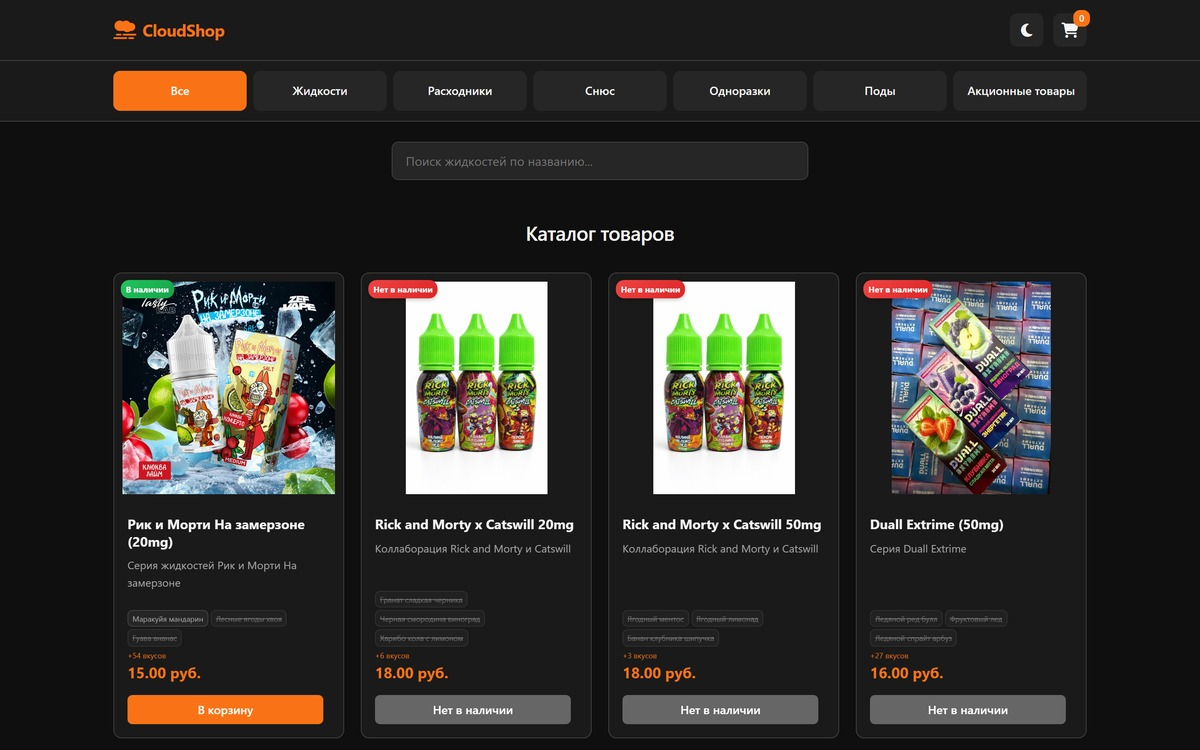
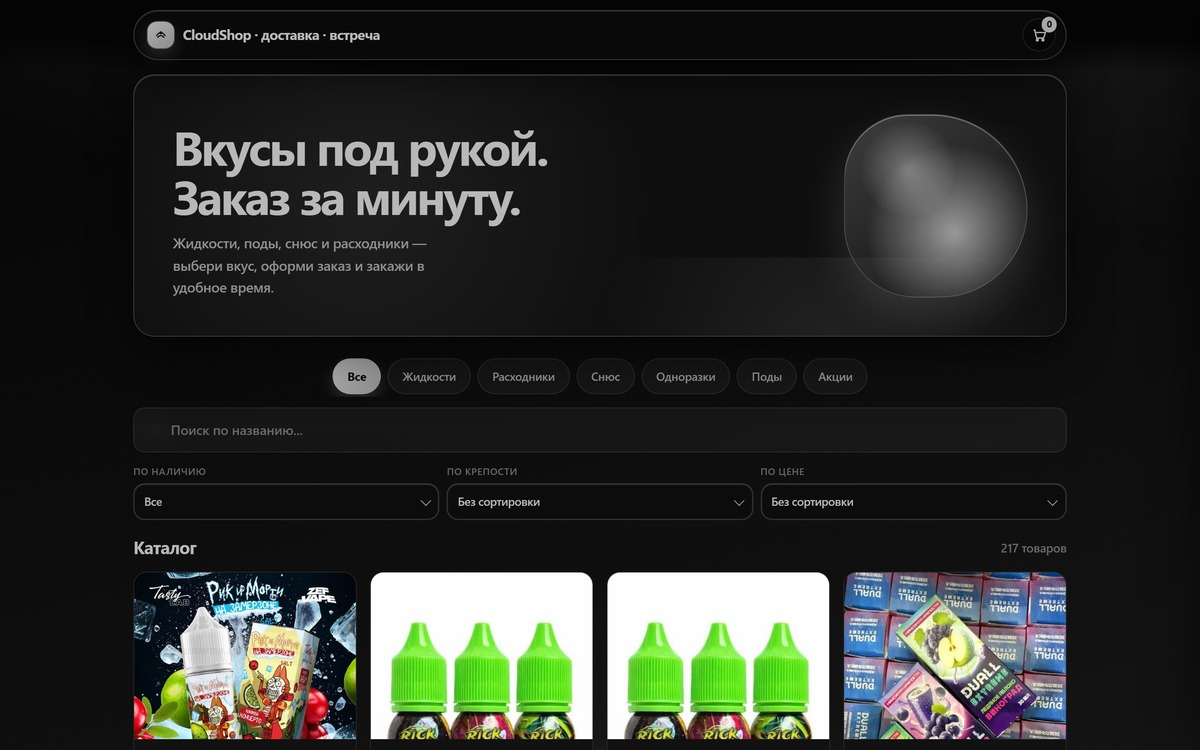
Update CloudShop preview to the redesigned site.

diff --git a/index.html b/index.html
@@ -17,7 +17,7 @@
   <link rel="preload" href="./fonts/g8.woff2" as="font" type="font/woff2" crossorigin />
   <link rel="preload" href="./fonts/g2.woff2" as="font" type="font/woff2" crossorigin />
   <link rel="stylesheet" href="./fonts/fonts.css" />
-  <link rel="stylesheet" href="./styles.css?v=24" />
+  <link rel="stylesheet" href="./styles.css?v=25" />
 </head>
 <body>
   <a class="skip" href="#work">К работам</a>
@@ -181,8 +181,8 @@
         <article class="project reveal" data-cat="shop" data-accent="mint">
           <a class="project__media tilt" href="https://cloudshopgrodno.com/" target="_blank" rel="noopener noreferrer">
             <picture>
-              <source srcset="./images/cloudshop.webp" type="image/webp" />
-              <img src="./images/cloudshop.jpg" alt="Сайт CloudShop" width="1200" height="750" loading="lazy" decoding="async" sizes="(max-width: 900px) 50vw, 560px" />
+              <source srcset="./images/cloudshop.webp?v=25" type="image/webp" />
+              <img src="./images/cloudshop.jpg?v=25" alt="Сайт CloudShop" width="1200" height="750" loading="lazy" decoding="async" sizes="(max-width: 900px) 50vw, 560px" />
             </picture>
             <span class="project__veil"></span>
             <span class="project__open">Открыть ↗</span>
